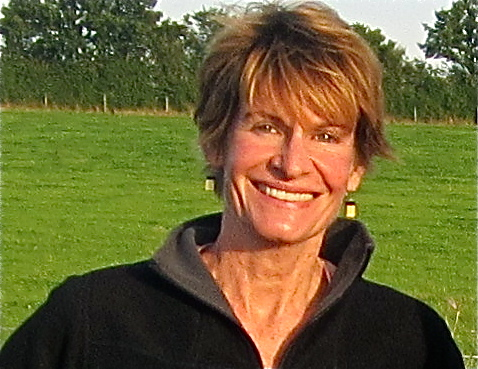
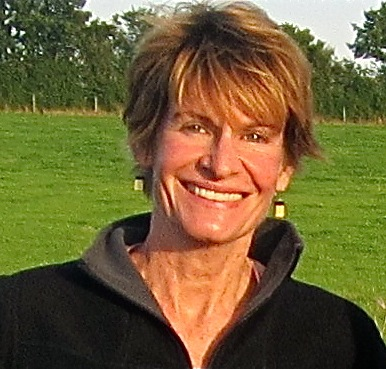
made buttons in view classes look much better

diff --git a/public/js/mapView.js b/public/js/mapView.js
@@ -1,9 +1,15 @@
+// TODO: 
+// -render marker color by type 
+// -fix infowindow location_name
+// -fix infowindow open/close
 
 var BLS;
 var BLS_lat = 42.3380;
 var BLS_long = -71.1020;
 
+
 var geocoder;
+var service;
 var map;
 
 
@@ -17,6 +23,8 @@ var mapOptions = {
 function init() {
 
 	geocoder = new google.maps.Geocoder();
+	// service = new google.maps.places.PlacesService(map);
+
 	BLS = new google.maps.LatLng(BLS_lat, BLS_long);
 	map = new google.maps.Map(document.getElementById('map_canvas'), mapOptions);
 
@@ -69,14 +77,14 @@ function renderMarkers() {
 			if (status == google.maps.GeocoderStatus.OK) {
 				var pos = results[0].geometry.location;
 			
+				console.log("YO>");
 				var marker = new google.maps.Marker({
 					map: map,
 					icon: '../images/marker.png',
 					position: pos
 				});
 
-
-				var contentString = "<div class='infoDiv'><h4 style='color: #000000'>" + location_name + "</h4><p style='color: #000000'>" + address + "</p></div>";
+				var contentString = "<div class='infoDiv'><h4 style='color: #000000'>" + "NAME GOES HERE" + "</h4><p style='color: #000000'>" + results[0].formatted_address + "</p></div>";
 				/*
 google.maps.event.addListener(marker,'click', (function(marker,content,infowindow){ 
     return function() {

diff --git a/public/css/style.css b/public/css/style.css
@@ -10,6 +10,9 @@ body {
 	background-size: 800px 600px;
 
 }
+img {
+	border-radius: 10px;
+}
 
 
 p {
@@ -61,7 +64,13 @@ a:visited {
 	padding: 10px;
 
 }
-
+.module_link {
+	margin: 5px;
+	padding: 15px;
+	font-family: subtitleFont;
+	font-size: 30px;
+	background-color: rgba(140,140,140,0.4);
+}
 /*
 .nav_link:hover {
 	color: #FFFFFF;
@@ -118,10 +127,7 @@ h4 {
 
 
 .info {
-	background-color: rgba(116,151,164,0.6);
 	background-color: rgba(78,154,182,0.4);
-	
-
 	
 	margin-right: 80px;
 	margin-left: 80px;
